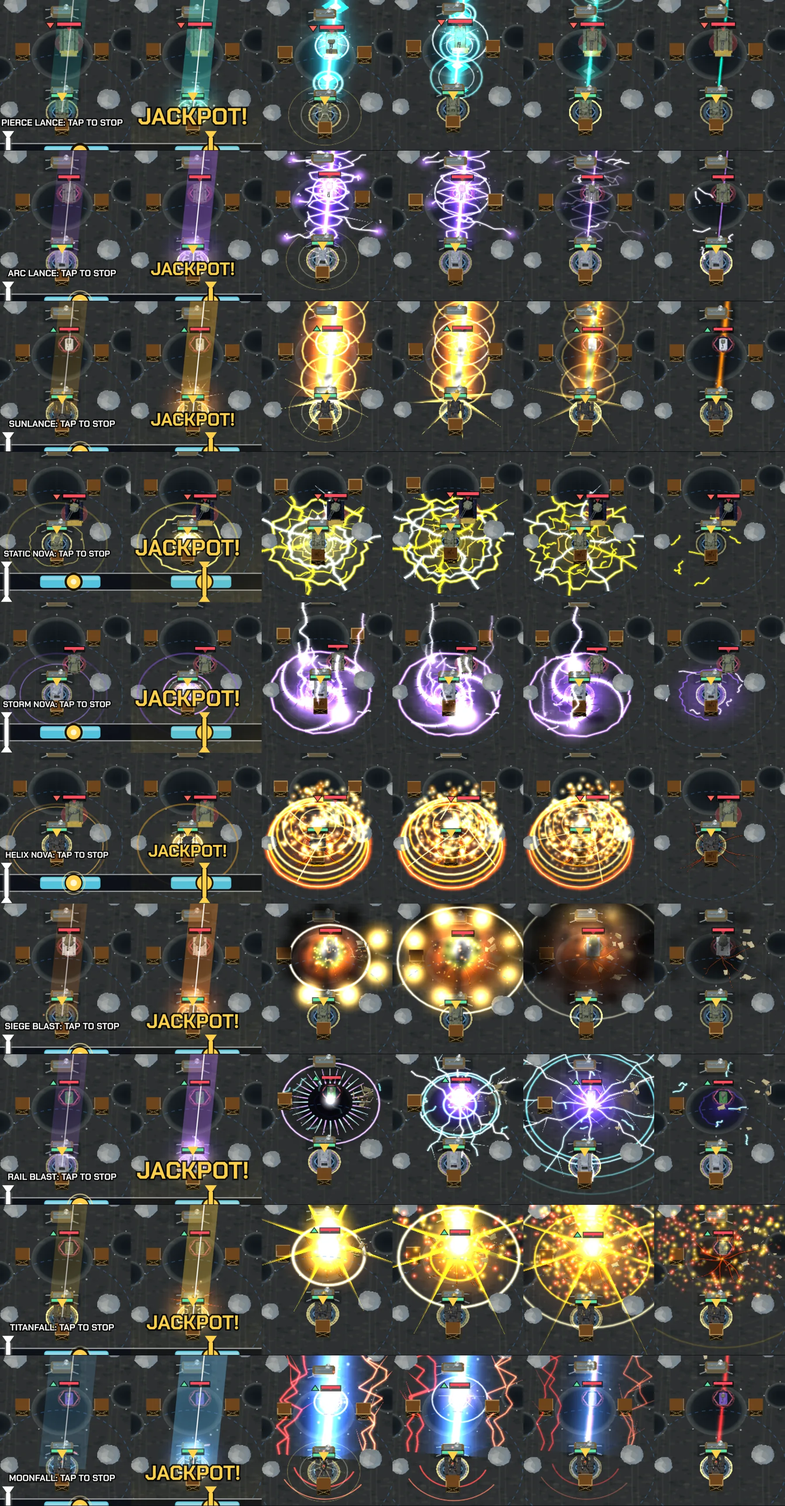
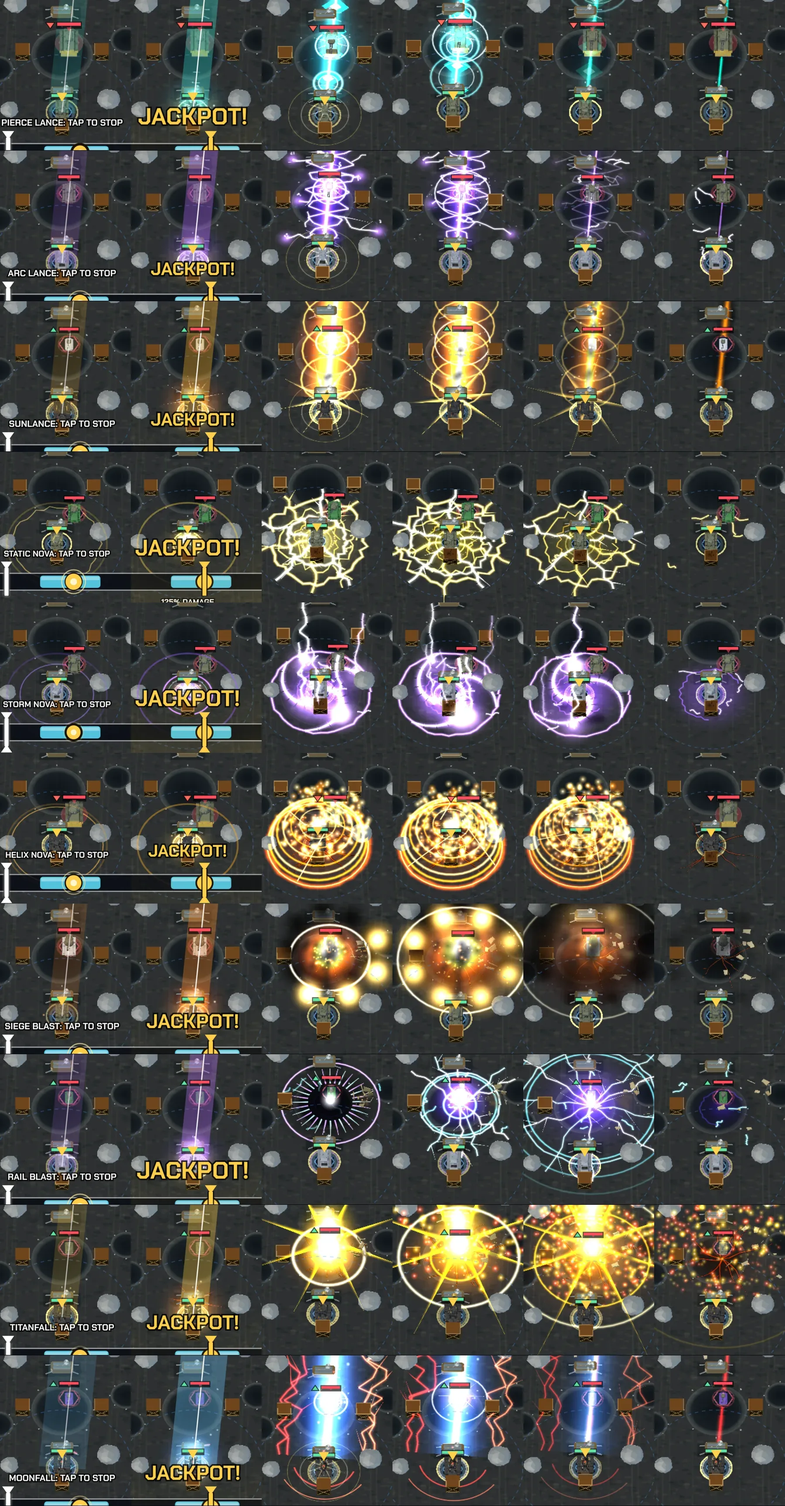
fix(supers): Static Nova tied to the Twin Repeater's real reference (5a4bea6f.png) — owner correction; sheets row re-captured; checkpoint note
Claude-Session: https://claude.ai/code/session_014ynx7xKbdMvzv2bp84k3fv

diff --git a/js/fx3d.js b/js/fx3d.js
@@ -28,7 +28,7 @@ const PAL={
  pulse0:{c:'#eaffff',a:'#3fe0d4',b:'#157f96',x:'#b9fff6'},   // Pulse Cannon (olive, plain barrel): teal rail lance
  pulse1:{c:'#ffffff',a:'#b56bff',b:'#5326d9',x:'#ead4ff'},   // Arc Pulse (silver, violet coils): violet helix lightning
  pulse2:{c:'#fff6d8',a:'#ffb52e',b:'#ff5a14',x:'#ffe9a0'},   // Nova Pulse (dark, amber star core, gold bell): solar lance
- twin0:{c:'#ffffff',a:'#ffe14a',b:'#ff9a1f',x:'#fff7c2'},    // Twin Repeater (olive, hazard strip): yellow static ring
+ twin0:{c:'#ffffff',a:'#ffd24a',b:'#c98a1a',x:'#fff7c2'},    // Twin Repeater (5a4bea6f.png: olive turret, two thin black barrels; no accent colour on the model): static in the weapon's own tracer yellow (rules.js WEAPONS.twin.c)
  twin1:{c:'#f4eaff',a:'#9d5cff',b:'#3f24c4',x:'#8fdcff'},    // Storm Repeater (silver, violet lines): violet storm vortex
  twin2:{c:'#fff1c4',a:'#ffae2b',b:'#f04a12',x:'#ffd66b'},    // Helix Repeater (amber spiral coils): amber helix dome
  siege0:{c:'#fff3c9',a:'#ff8a2a',b:'#c9300f',x:'#ffd24a'},   // Siege Breaker (olive, box brake): high-explosive fireball
@@ -326,7 +326,7 @@ function create(T,host){
  function superNova(key,oc,x,y,z,r,u){
   const d=oc===2?(key==='twin1'?1.1:.95):oc===1?.65:.45,e=spawn(fxNova,d,x,y,z,rnd()*TAU,r,0,u,key,oc),P=PAL[key]||PAL.pulse0;
   shake(oc===2?13:oc===1?7:3,oc===2?.5:.3);
-  if(key==='twin0'){if(oc>0)mark(3,oc===2?2.8:2.0,x,y+.03,z,r*.95,0,0,null,col('#fff200'),u);}
+  if(key==='twin0'){if(oc>0)mark(3,oc===2?2.8:2.0,x,y+.03,z,r*.95,0,0,null,col(P.a),u);}
   else if(key==='twin1'){mark(4,oc===2?3.0:oc===1?2.2:1.1,x,y+.03,z,r*(oc===0?.6:.9),0,0,null,col('#7c3aed'),u);if(oc===2)mark(3,2.2,x,y+.03,z,r*.9,0,0,null,col('#d8b4fe'),u);}
   else{mark(2,oc===2?2.8:1.5,x,y+.03,z,r*(oc===2?1.0:.7),rnd()*TAU,oc===2?9:oc===1?5:3,col('#120a04'),col('#ff3d00'),u);}
   if(oc>0)mark(0,oc===2?2.2:1.3,x,y+.025,z,r*.5,0,0);
@@ -335,8 +335,8 @@ function create(T,host){
  function fxNova(e){
   const P=e.P,key=e.k,oc=e.oc,u=e.u,R=e.a,t=e.t,k=t/e.d,q=quiet(),A=col(P.a),B=col(P.b),C=col(P.c),X=col(P.x),fs=frame>>(q?4:1),y=e.y+.08;
   const ex=1-Math.pow(1-Math.min(1,t/.2),2.4),fade=k<.35?1:Math.max(0,1-(k-.35)/.65),rr=R*(.12+.88*ex);   // the wave reaches its full radius in 0.2 s (the hit lands at once), then lingers and fades
-  if(key==='twin0'){   // STATIC NOVA: lemon-yellow jagged rings snap outward with lightning spokes to the rim; nothing smooth
-   const Y=col('#fff200'),I=col('#e0ffff'),ns=oc===0?0:oc===1?6:10;
+  if(key==='twin0'){   // STATIC NOVA: jagged tracer-yellow rings snap outward with lightning spokes to the rim; nothing smooth
+   const Y=col(P.a),I=col('#fffbe0'),ns=oc===0?0:oc===1?6:10;   // the Twin Repeater's own tracer yellow with a white-hot edge
    disc(e.x,e.y+.05,e.z,R*(.5+.6*ex),col('#b89b00'),.36*fade);if(oc>0)disc(e.x,e.y+.06,e.z,rr*(oc===2?1.15:.95),oc===2?I:Y,(oc===2?.75:.4)*Math.max(0,1-t/.22));   // a filled flash under the rings
    ring(e.x,y,e.z,rr,.2*u*OCW[oc],Y,fade,48,.2,fs);ring(e.x,y+.02,e.z,rr,.08*u,I,fade,48,.2,fs);
    if(oc>0){ring(e.x,y+.1,e.z,rr*.72,.15*u,Y,fade*.9,40,.3,fs+50);ring(e.x,y+.2,e.z,rr*.45,.12*u,col(P.b),fade*.85,30,.36,fs+90);}

diff --git a/dev/tests/super-vfx-capture.py b/dev/tests/super-vfx-capture.py
@@ -95,7 +95,7 @@ async def run_view(p,name,report):
             box=crop_box(info,w,h,scale,6.0 if key.startswith('twin') else 5.6)
             tiles[(key,oc)]={k:v.crop(box) for k,v in shots.items()}
             print(tag,key,OC[oc],info['name'],'fired',round(fired/30,2),'peak',peak,flush=True)
-    rep['pageErrors']=errs;rep['idleAfter']=await pg.evaluate('(()=>{for(let i=0;i<150;i++)__step(1);const s=__step(1);return {calls:s.calls,programs:s.programs,tris:s.tris,fxOn:SFX.glow.visible||SFX.debris.visible,fx:s.fx};})()')
+    rep['pageErrors']=errs;rep['idleAfter']=await pg.evaluate('(()=>{for(const c of crates)c.hp=c.mhp;for(const u of units)u.hp=u.mhp;for(let i=0;i<150;i++)__step(1);const s=__step(1);return {calls:s.calls,programs:s.programs,tris:s.tris,fxOn:SFX.glow.visible||SFX.debris.visible,fx:s.fx};})()')
     await b.close()
     # sheets
     T=300

diff --git a/docs/conquest/IMPLEMENTATION_CHECKPOINT.md b/docs/conquest/IMPLEMENTATION_CHECKPOINT.md
@@ -1941,6 +1941,8 @@ prop rebuilds, the town tank, see-through removal, the visual addendum, war mode
   asked to update before a live match, as with every protocol step).
 - Merge commit, Pages and Worker deploy run IDs and the health / version check: see "Release record" at the end of this checkpoint.
 
+**Owner correction (Nov 11, mid-session):** the Twin Repeater's reference is `docs/art/references/tanks/v2/weapons/5a4bea6f.png` (olive turret, two thin black barrels), not `a4207149.png` as Checkpoint 32's table says; `a4207149.png` and `13e648cb.png` are not in the game and must never be used. Static Nova's yellow had been taken from the hazard strip on `a4207149.png`: it now uses the weapon's own tracer yellow (`WEAPONS.twin.c`), its sheet rows were re-captured, and the model and its colours were not touched.
+
 ### What shipped
 **Slice 1, supers**
 - **About 3 supers a match** for every pilot (was 5.94 on average: 3.6 on a stock tank up to 9.8 with the Moonbeam kit).
@@ -1958,7 +1960,7 @@ prop rebuilds, the town tank, see-through removal, the visual addendum, war mode
   0.10): every league taps worse than an average person, none is perfect. Their super spacing rules are unchanged.
 - **Ten supers**, one per weapon item, each with its own name, colours (from the weapon's Meshy look) and shape, x three outcomes:
   Pierce Lance (teal rail, shock diamonds; jackpot sonic rings), Arc Lance (violet beam in a lightning helix; chain lightning),
-  Sunlance (gold solar beam, muzzle star; flame columns), Static Nova (lemon jagged rings and spokes), Storm Nova (violet vortex
+  Sunlance (gold solar beam, muzzle star; flame columns), Static Nova (tracer-yellow jagged rings and spokes), Storm Nova (violet vortex
   arms; sky strikes), Helix Nova (orange stacked-ring dome; fire rain + cracks), Siege Blast (fireball and black smoke; ring of
   secondary blasts), Rail Blast (implosion lens, violet sphere, crawling lightning; EMP rings), Titanfall (white-gold dome and
   column, ground cracks; fire rain), Moonfall (owner-fixed: miss thinner blue beam, normal blue beam with thin blue electricity,
